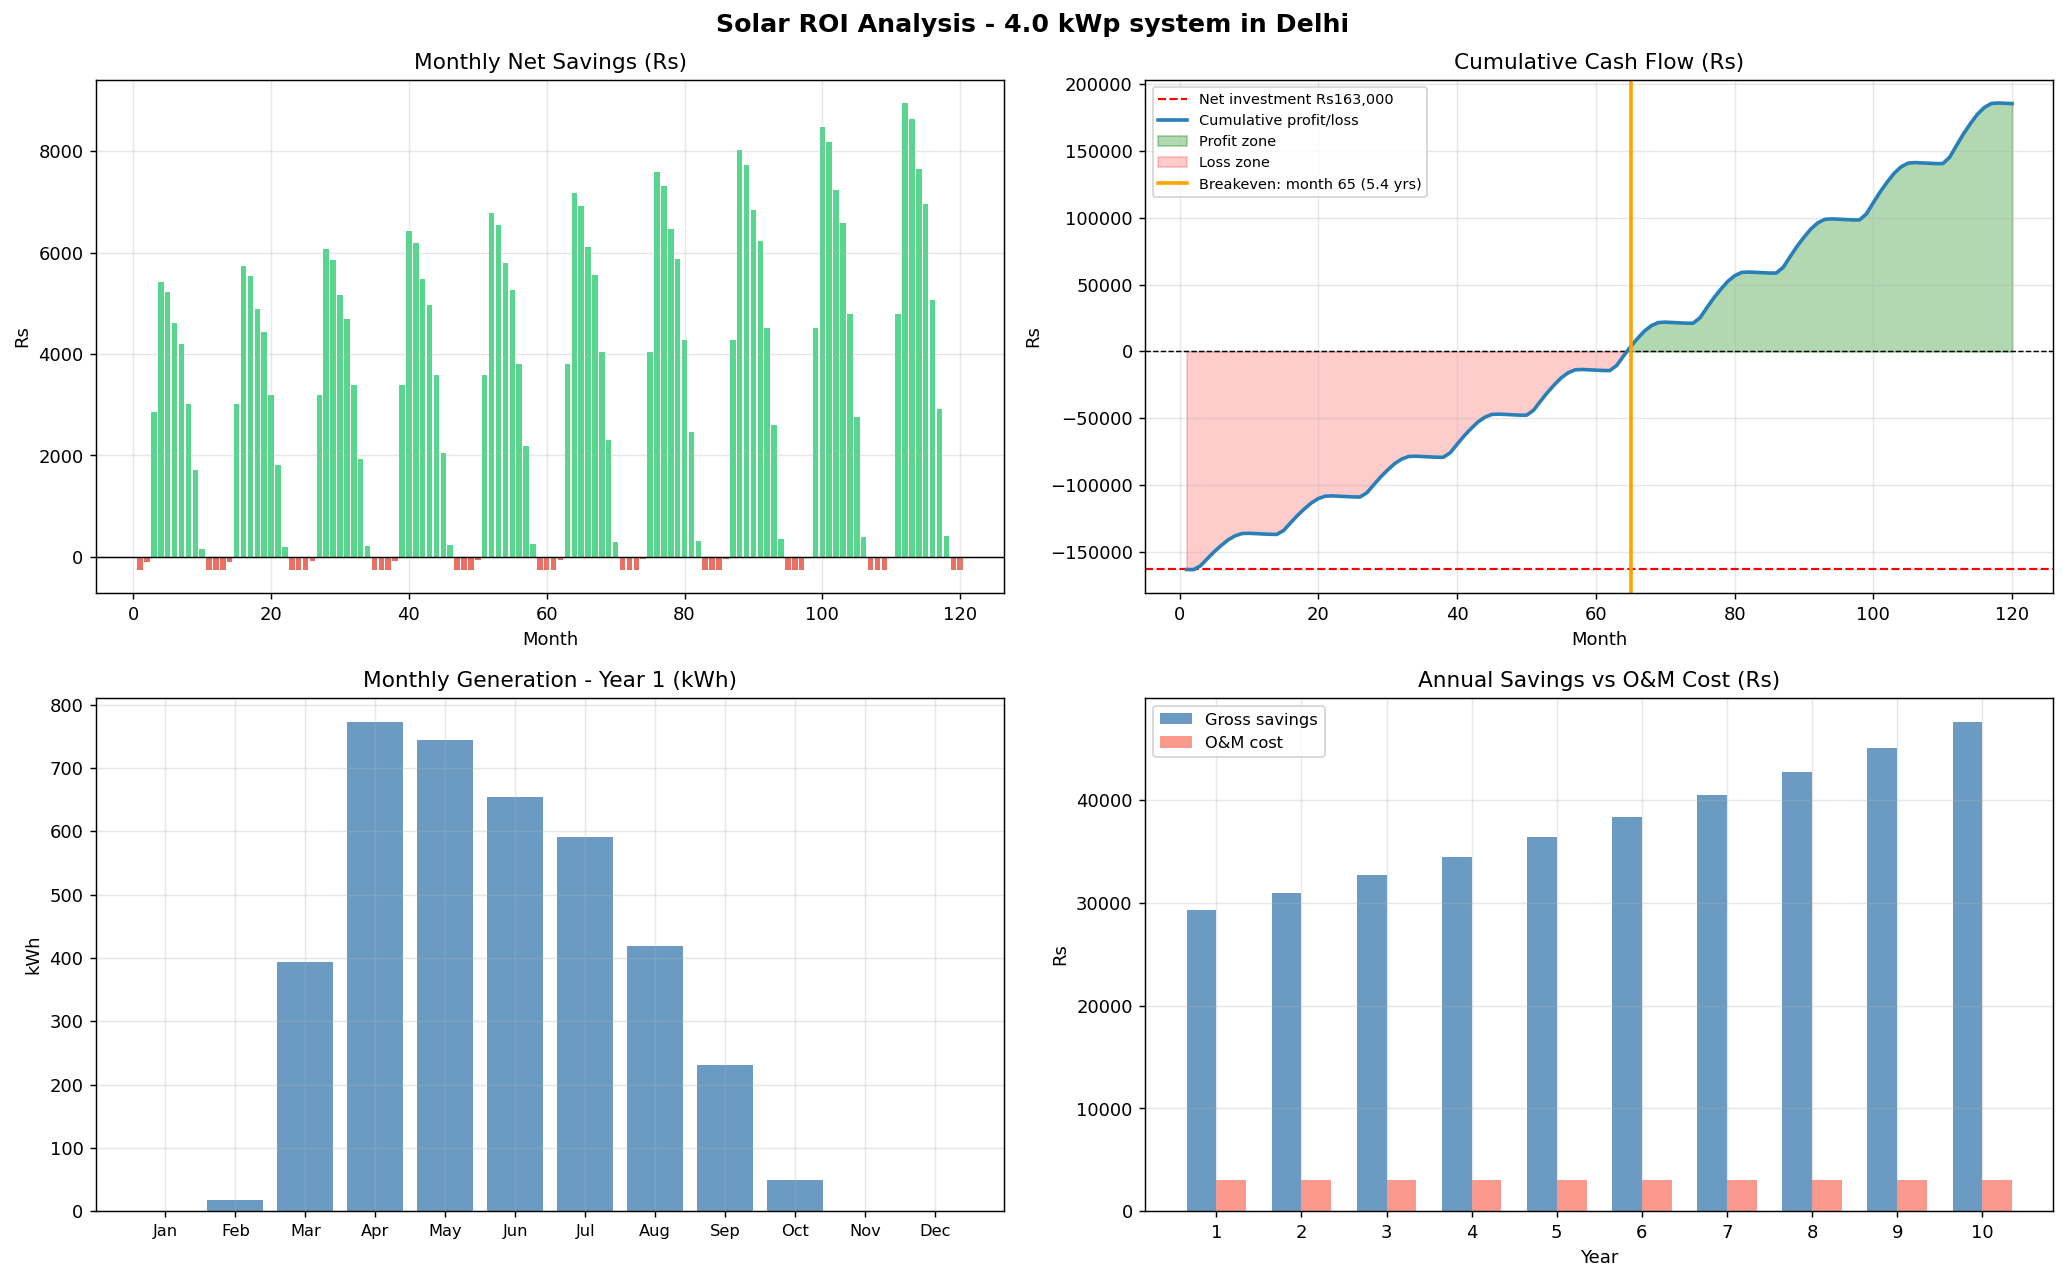
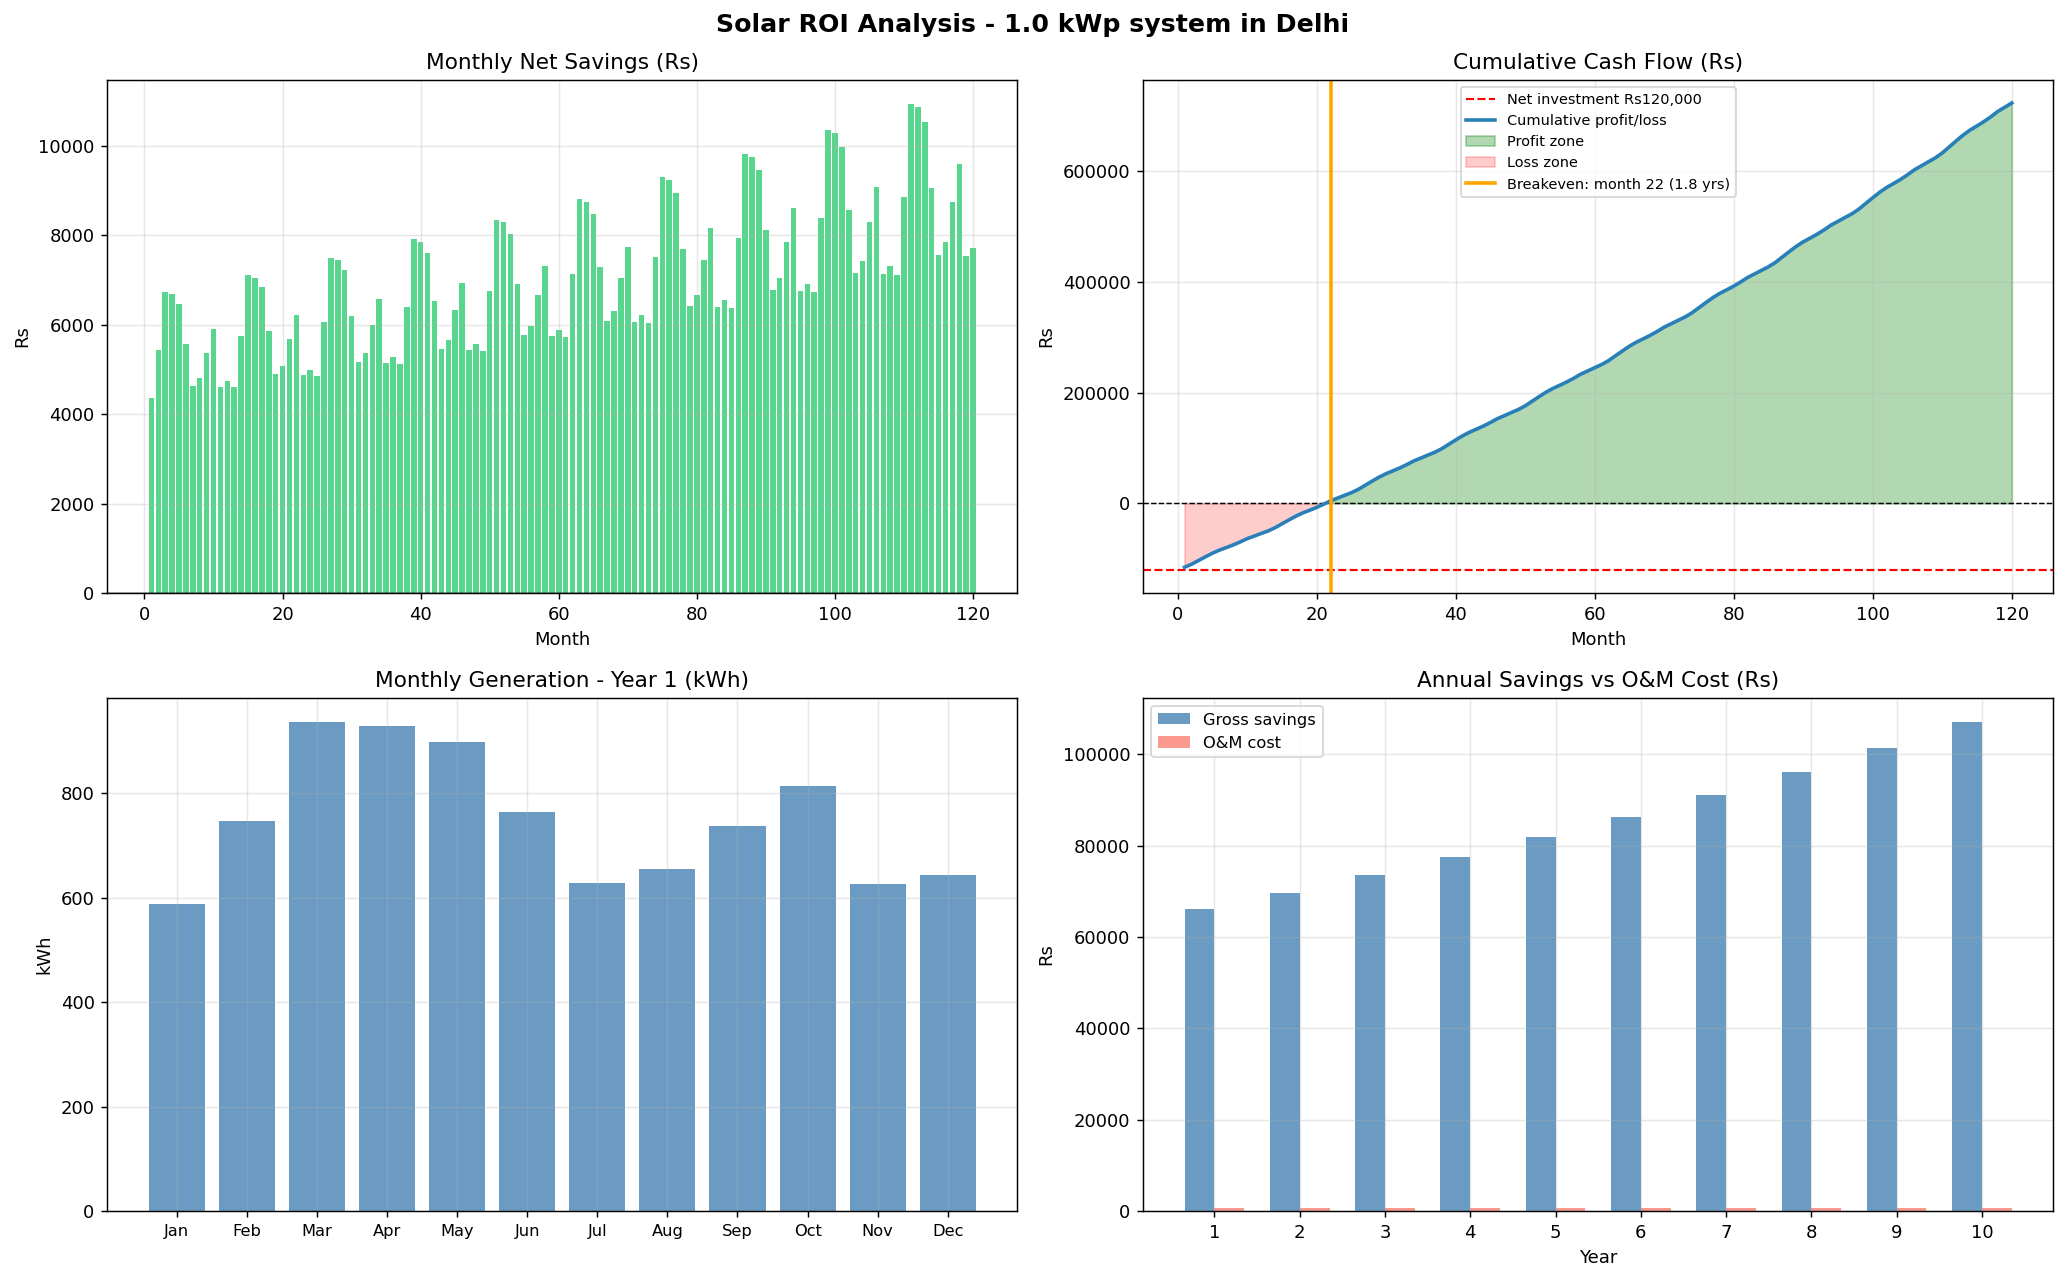
Update README numbers to match corrected data (2016-2025)
- API output verified: net profit Rs 6,83,732, IRR 53.0%, CO2 70.9t
- Corrected data gives 86,421 kWh 10-yr total vs old 88,913 kWh

diff --git a/README.md b/README.md
@@ -12,7 +12,7 @@ A solar investment calculator for the Indian residential market.
 
 > With a 6 kWp system in Delhi at Rs 2,70,000 installed cost,
 > break even is 2 years 5 months.
-> 10-year net profit: Rs 7,06,011. Annual IRR: 54.6%.
+> 10-year net profit: Rs 6,83,732. Annual IRR: 53.0%.
 
 </div>
 
@@ -83,7 +83,7 @@ All results from running the pipeline on New Delhi (28.61N, 77.20E).
 | Year 3 | 8,750 kWh |
 | Year 5 | 8,663 kWh |
 | Year 10 | 8,448 kWh |
-| 10-yr total | 86,425 kWh |
+| 10-yr total | 86,421 kWh |
 
 ![10-Year Forecast](plots/forecast_10yr.png)
 
@@ -96,9 +96,9 @@ All results from running the pipeline on New Delhi (28.61N, 77.20E).
 | Base DISCOM tariff (Delhi) | Rs 8.50/kWh |
 | Tariff escalation | 6%/year |
 | Payback period | 2 years 5 months |
-| 10-year net profit | Rs 7,06,011 |
-| Annual IRR | 54.6% |
-| CO2 offset over 10 years | 72.9 tonnes |
+| 10-year net profit | Rs 6,83,732 |
+| Annual IRR | 53.0% |
+| CO2 offset over 10 years | 70.9 tonnes |
 
 ![ROI Analysis](plots/roi_analysis.png)
 
@@ -184,9 +184,9 @@ curl -X POST http://127.0.0.1:5001/roi-report \
   "subsidy": { "pm_surya_ghar_rs": 105000, "net_investment_rs": 165000 },
   "result":  {
     "payback_readable":   "2 years 5 months",
-    "net_profit_10yr_rs": 706011,
-    "irr_annual_pct":     54.56,
-    "total_10yr_kwh":     86425,
+    "net_profit_10yr_rs": 683732,
+    "irr_annual_pct":     53.04,
+    "total_10yr_kwh":     86421,
     "co2_saved_tonnes":   70.87
   },
   "monthly_cashflow": [ ... 120 rows ... ]
